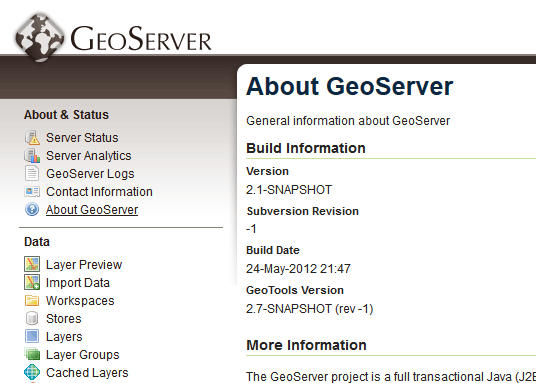
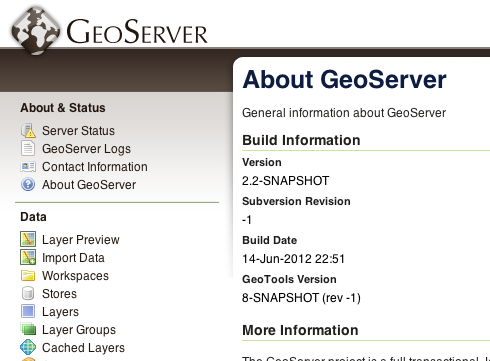
Update GeoTools version in screenshot to reflect current Suite version

Changed region(s): [[0.0, 0.0, 1.0, 1.0], [0.4592, 0.8837, 1.0, 1.0]]

diff --git a/docs/usermanual/source/processing/wpsjava/index.rst b/docs/usermanual/source/processing/wpsjava/index.rst
@@ -278,6 +278,12 @@ Once in the WPS request builder, select the process called ``gs:splitPolygon`` f
 
 An example of a request using the WPS Request Builder with our custom Split Polygon WPS process is shown below, taking a polygon and a line as parameters to the request
 
+You can use the following input polygon and line to test the process:
+
+POLYGON ((110 20, 120 20, 120 10, 110 10, 110 20),(112 17, 118 18, 118 16, 112 15, 112 17))
+
+LINESTRING (1117 22, 112 18, 118 13, 115 8)
+
 .. figure:: img/request-builder.png
 
    *Newly created process in WPS request builder*
